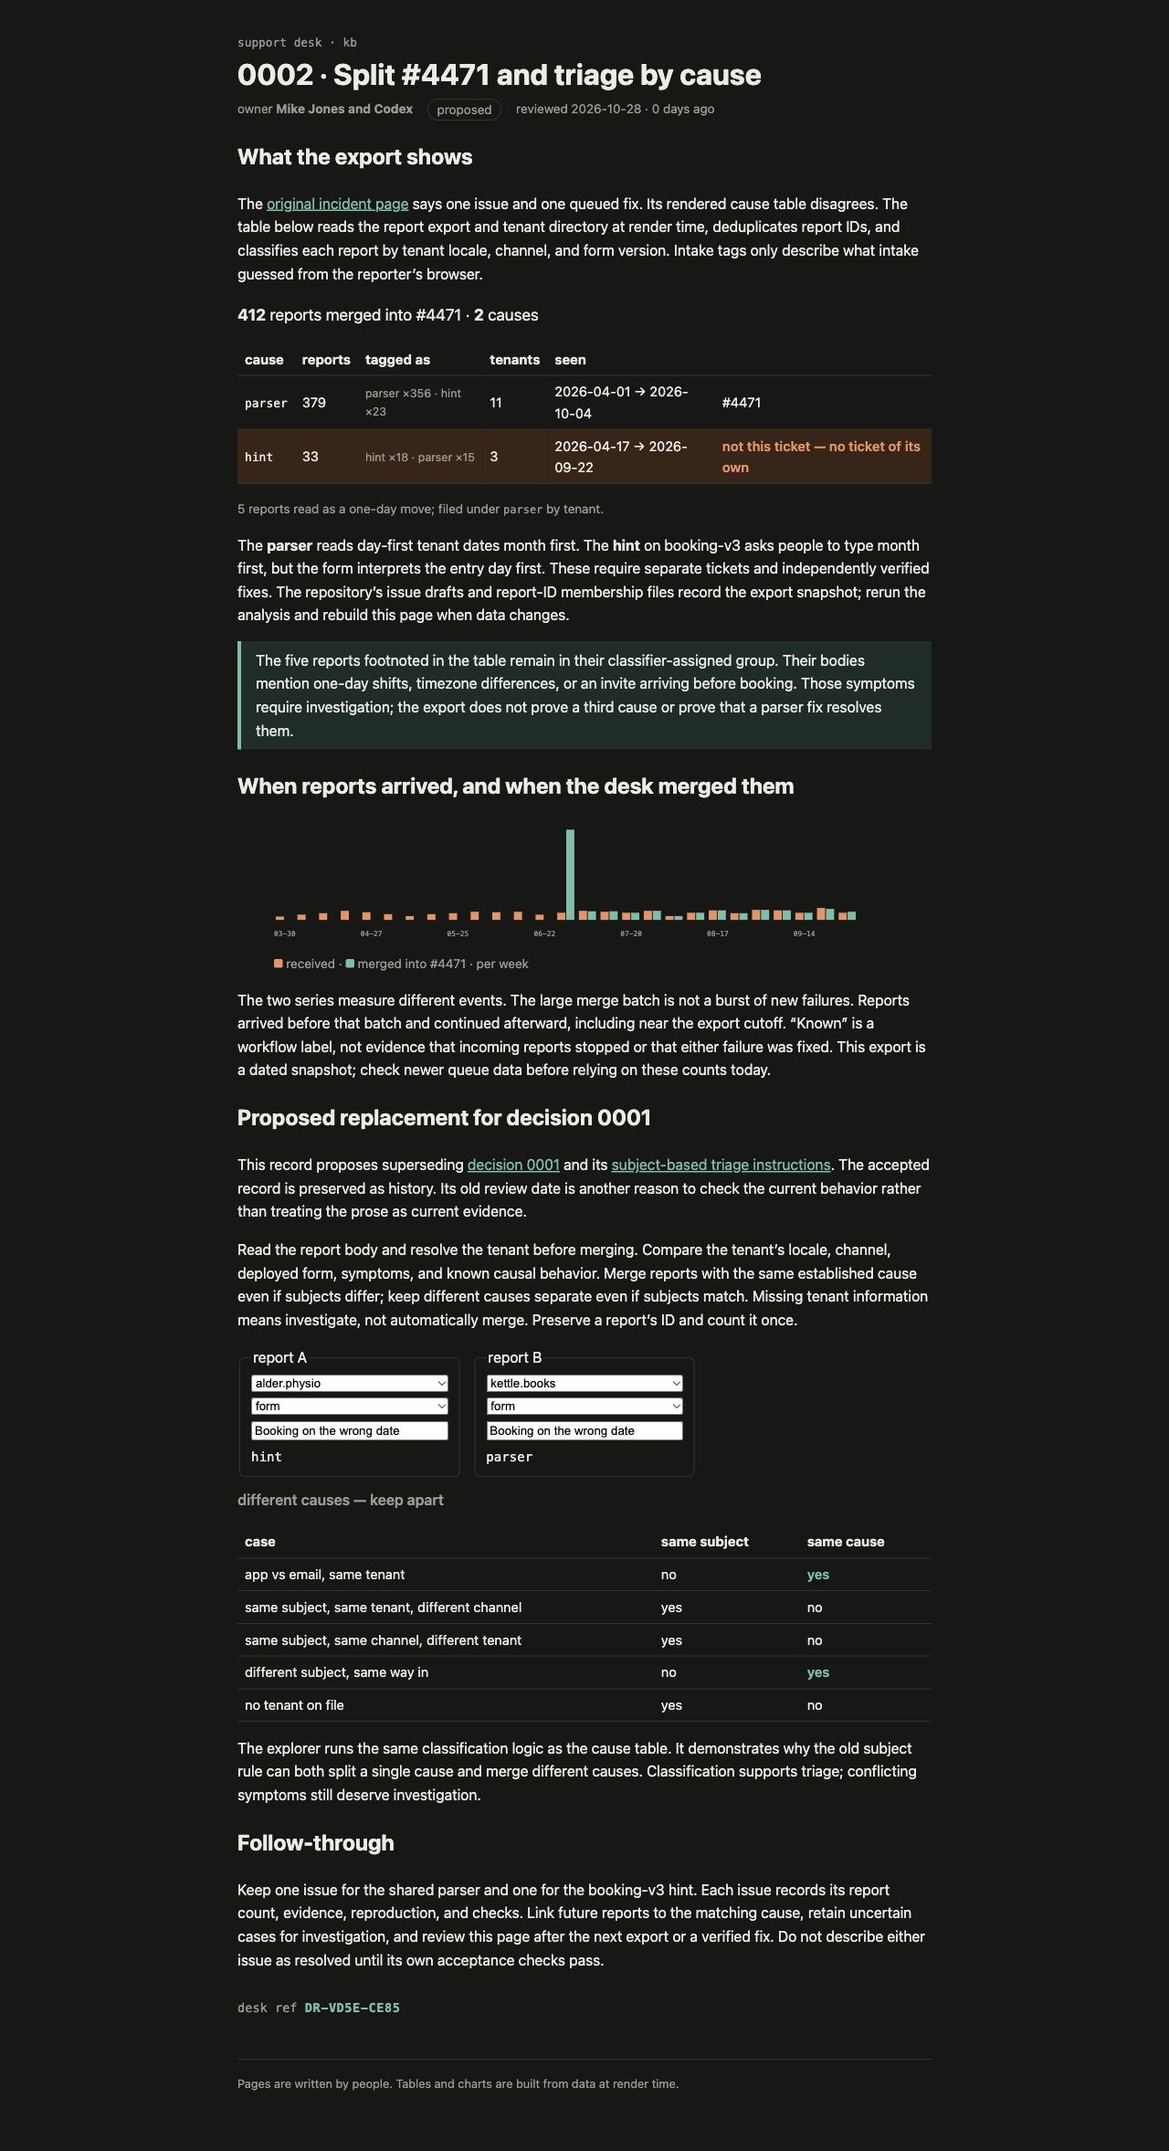
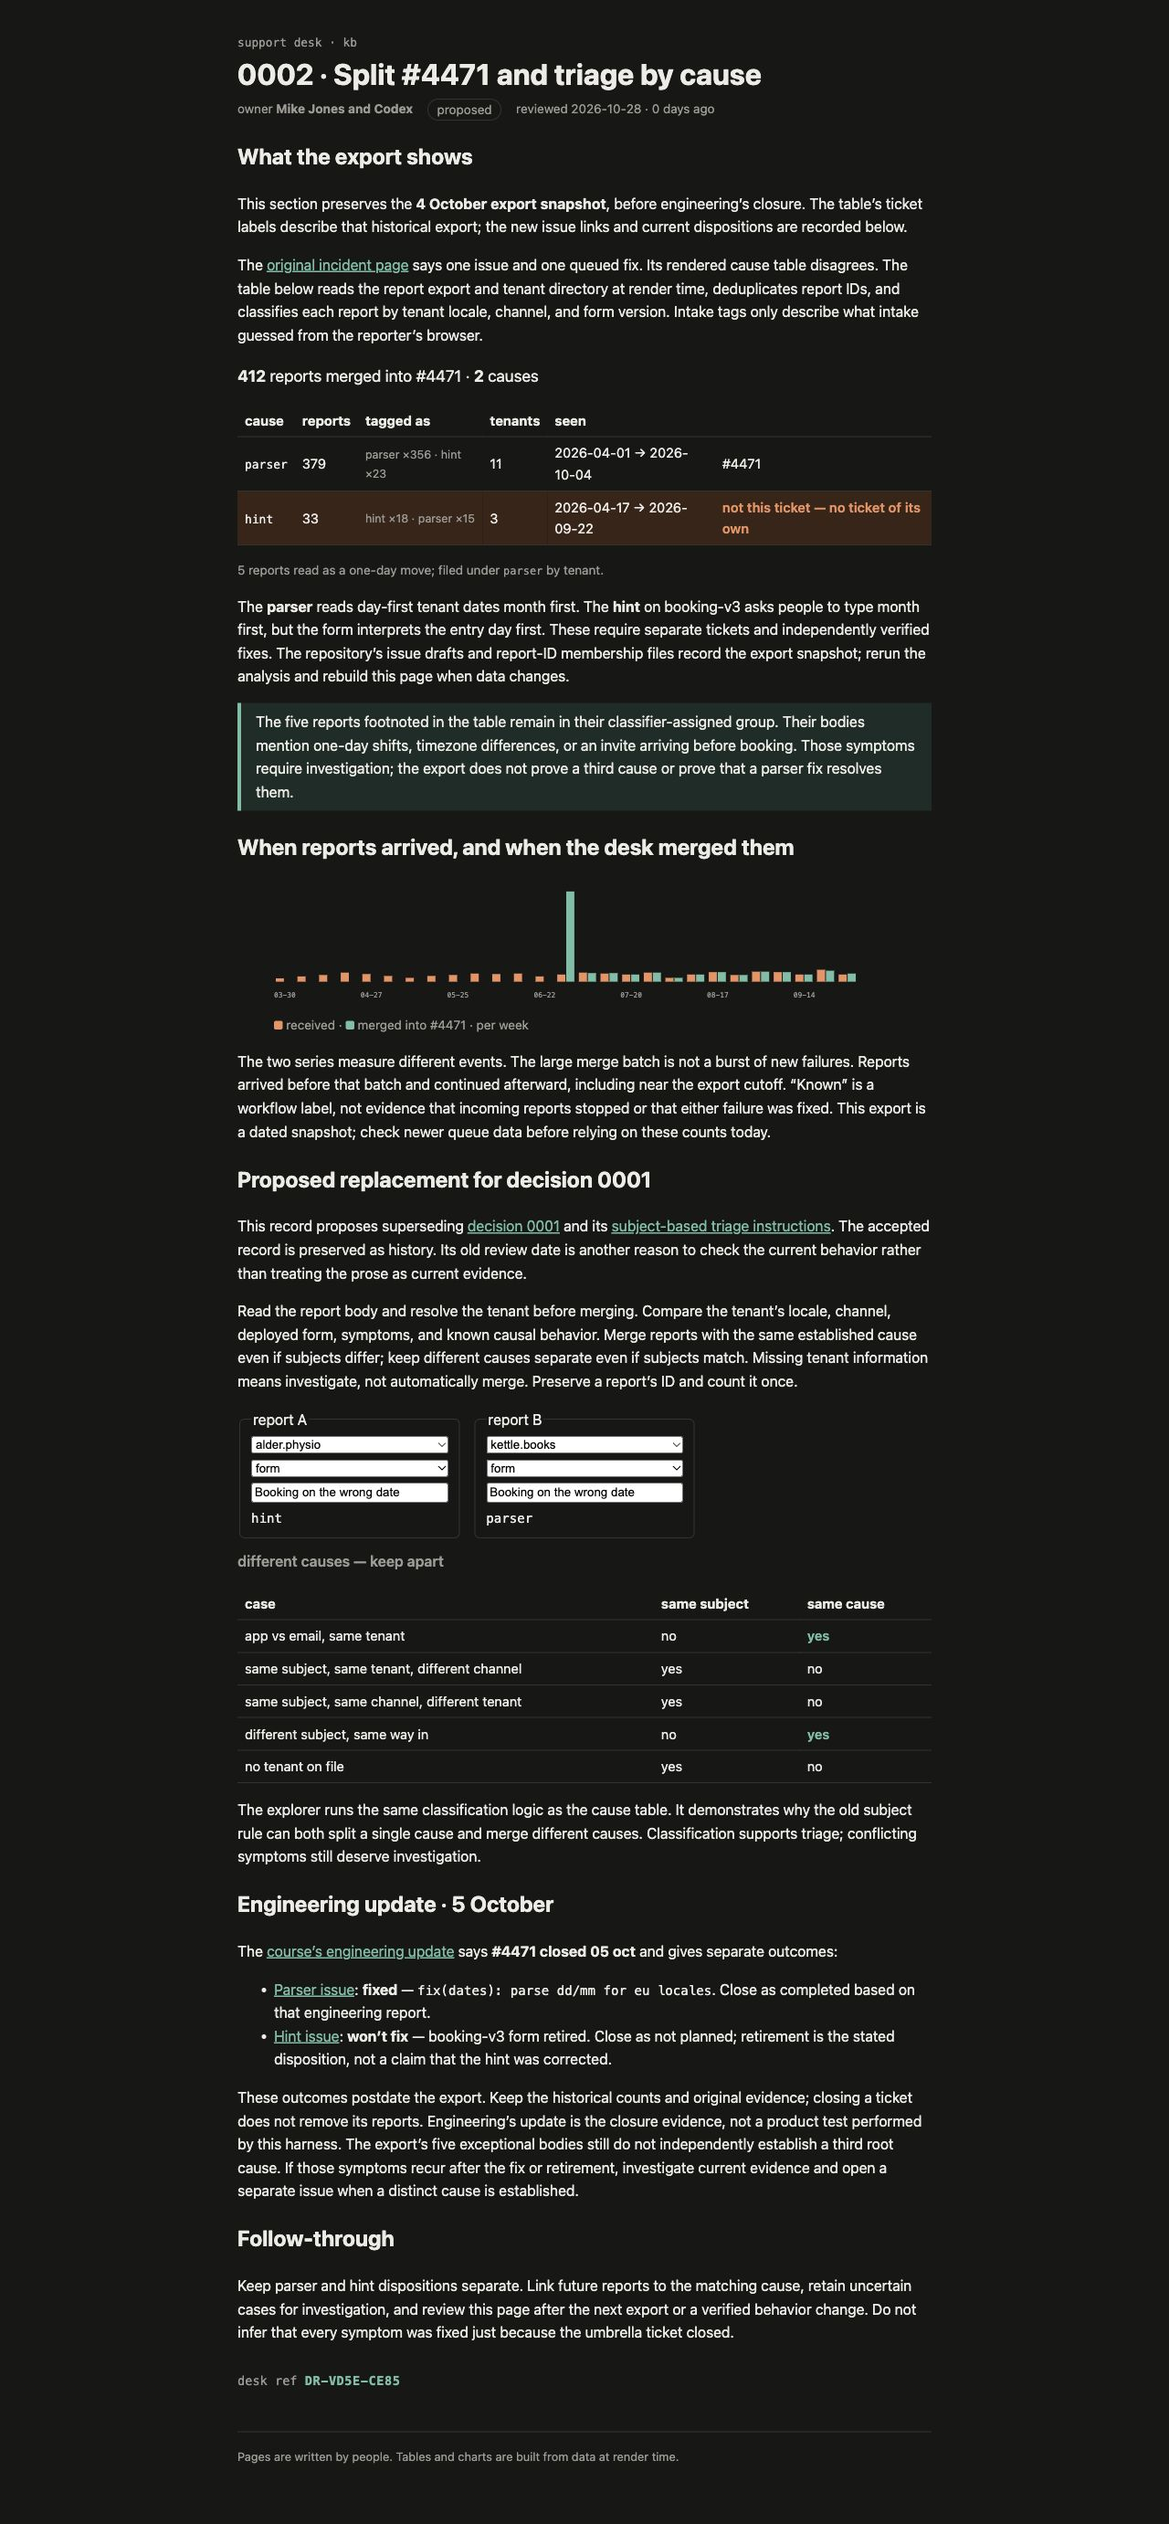
docs: record engineering outcomes for ticket 4471

Changed region(s): [[0.1875, 0.0, 0.8125, 0.9919]]

diff --git a/support-kb/rendered/kb/decisions/0002-triage-by-cause/index.html b/support-kb/rendered/kb/decisions/0002-triage-by-cause/index.html
@@ -56,7 +56,9 @@
   .stamp.svelte-1280m42 b:where(.svelte-1280m42) { color: var(--accent); letter-spacing: 0.04em; }
   .missing.svelte-1280m42 { color: var(--warn); }
 
[2 lines of base64/hex data omitted]
+closure. The table’s ticket labels describe that historical export; the new
+issue links and current dispositions are recorded below.</p> <p>The <a href="/kb/incidents/4471">original incident page</a> says one issue and one queued fix.
 Its rendered cause table disagrees. The table below reads the report export and
 tenant directory at render time, deduplicates report IDs, and classifies each
 report by tenant locale, channel, and form version. Intake tags only describe
@@ -79,8 +81,14 @@ with the same established cause even if subjects differ; keep different causes
 separate even if subjects match. Missing tenant information means investigate,
 not automatically merge. Preserve a report’s ID and count it once.</p> <div class="try svelte-gq0h2h"><!--[--><fieldset class="svelte-gq0h2h"><legend>report A</legend> <select aria-label="tenant"><!--[--><option selected="">alder.physio</option><option>copper.studio</option><option>harbour.dental</option><option>kettle.books</option><option>lantern.row</option><option>long.table</option><option>morrow.tax</option><option>nine.lanterns</option><option>pale.harbour</option><option>ridge.clinic</option><option>stone.and.sons</option><!--]--></select> <select aria-label="channel"><!--[--><option>app</option><option>email</option><option selected="">form</option><!--]--></select> <input value="Booking on the wrong date" aria-label="subject"/> <code>hint</code></fieldset><fieldset class="svelte-gq0h2h"><legend>report B</legend> <select aria-label="tenant"><!--[--><option>alder.physio</option><option>copper.studio</option><option>harbour.dental</option><option selected="">kettle.books</option><option>lantern.row</option><option>long.table</option><option>morrow.tax</option><option>nine.lanterns</option><option>pale.harbour</option><option>ridge.clinic</option><option>stone.and.sons</option><!--]--></select> <select aria-label="channel"><!--[--><option>app</option><option>email</option><option selected="">form</option><!--]--></select> <input value="Booking on the wrong date" aria-label="subject"/> <code>parser</code></fieldset><!--]--> <p class="verdict svelte-gq0h2h">different causes — keep apart</p></div> <table><thead><tr><th>case</th><th>same subject</th><th>same cause</th></tr></thead><tbody><!--[--><tr><td>app vs email, same tenant</td><td>no</td><td class="svelte-gq0h2h dup">yes</td></tr><tr><td>same subject, same tenant, different channel</td><td>yes</td><td class="svelte-gq0h2h">no</td></tr><tr><td>same subject, same channel, different tenant</td><td>yes</td><td class="svelte-gq0h2h">no</td></tr><tr><td>different subject, same way in</td><td>no</td><td class="svelte-gq0h2h dup">yes</td></tr><tr><td>no tenant on file</td><td>yes</td><td class="svelte-gq0h2h">no</td></tr><!--]--></tbody></table><!----> <p>The explorer runs the same classification logic as the cause table. It demonstrates
 why the old subject rule can both split a single cause and merge different causes.
-Classification supports triage; conflicting symptoms still deserve investigation.</p> <h2>Follow-through</h2> <p>Keep one issue for the shared parser and one for the booking-v3 hint. Each issue
-records its report count, evidence, reproduction, and checks. Link future reports
-to the matching cause, retain uncertain cases for investigation, and review this
-page after the next export or a verified fix. Do not describe either issue as
-resolved until its own acceptance checks pass.</p> <!--[0--><p class="stamp svelte-1280m42">desk ref <b class="svelte-1280m42">DR-VD5E-CE85</b></p><!--]--><!----><!----></main> <footer class="svelte-e2jw2j">Pages are written by people. Tables and charts are built from data at render time.</footer></div><!--]--><script type="module" src="/assets/kb.js"></script></body></html>
+Classification supports triage; conflicting symptoms still deserve investigation.</p> <h2>Engineering update · 5 October</h2> <p>The <a href="https://hq.mega.dev/challenges/what-it-shows#engineering-update" rel="nofollow">course’s engineering update</a> says <strong>#4471 closed 05 oct</strong> and gives separate outcomes:</p> <ul><li><a href="https://github.com/Mikejonesab12/mega-s01e03-what-it-shows/issues/1" rel="nofollow">Parser issue</a>: <strong>fixed</strong> — <code>fix(dates): parse dd/mm for eu locales</code>. Close as completed based
+on that engineering report.</li> <li><a href="https://github.com/Mikejonesab12/mega-s01e03-what-it-shows/issues/2" rel="nofollow">Hint issue</a>: <strong>won’t fix</strong> — booking-v3 form retired. Close as not planned; retirement is
+the stated disposition, not a claim that the hint was corrected.</li></ul> <p>These outcomes postdate the export. Keep the historical counts and original
+evidence; closing a ticket does not remove its reports. Engineering’s update is
+the closure evidence, not a product test performed by this harness. The export’s
+five exceptional bodies still do not independently establish a third root cause.
+If those symptoms recur after the fix or retirement, investigate current evidence
+and open a separate issue when a distinct cause is established.</p> <h2>Follow-through</h2> <p>Keep parser and hint dispositions separate. Link future reports to the matching
+cause, retain uncertain cases for investigation, and review this page after the
+next export or a verified behavior change. Do not infer that every symptom was
+fixed just because the umbrella ticket closed.</p> <!--[0--><p class="stamp svelte-1280m42">desk ref <b class="svelte-1280m42">DR-VD5E-CE85</b></p><!--]--><!----><!----></main> <footer class="svelte-e2jw2j">Pages are written by people. Tables and charts are built from data at render time.</footer></div><!--]--><script type="module" src="/assets/kb.js"></script></body></html>

diff --git a/support-kb/rendered/assets/kb.js b/support-kb/rendered/assets/kb.js
@@ -3467,30 +3467,59 @@ var Ho = {
 	status: "proposed",
 	reviewed: "2026-10-28",
 	signature: "Mike Jones · Codex · MEGA S01E03 · 2026-10-28"
-}, { layout: Uo, title: Wo, owner: Go, status: Ko, reviewed: qo, signature: Jo } = Ho, Yo = Q(/* @__PURE__ */ Y("<h2>What the export shows</h2> <p>The <a href=\"/kb/incidents/4471\">original incident page</a> says one issue and one queued fix.\nIts rendered cause table disagrees. The table below reads the report export and\ntenant directory at render time, deduplicates report IDs, and classifies each\nreport by tenant locale, channel, and form version. Intake tags only describe\nwhat intake guessed from the reporter’s browser.</p> <!> <p>The <strong>parser</strong> reads day-first tenant dates month first. The <strong>hint</strong> on booking-v3\nasks people to type month first, but the form interprets the entry day first.\nThese require separate tickets and independently verified fixes. The repository’s\nissue drafts and report-ID membership files record the export snapshot; rerun the\nanalysis and rebuild this page when data changes.</p> <!> <h2>When reports arrived, and when the desk merged them</h2> <!> <p>The two series measure different events. The large merge batch is not a burst of\nnew failures. Reports arrived before that batch and continued afterward, including\nnear the export cutoff. “Known” is a workflow label, not evidence that incoming\nreports stopped or that either failure was fixed. This export is a dated snapshot;\ncheck newer queue data before relying on these counts today.</p> <h2>Proposed replacement for decision 0001</h2> <p>This record proposes superseding <a href=\"/kb/decisions/0001-dedupe-by-subject\">decision 0001</a> and its <a href=\"/kb/triage/dedupe\">subject-based triage instructions</a>. The accepted record\nis preserved as history. Its old review date is another reason to check the current\nbehavior rather than treating the prose as current evidence.</p> <p>Read the report body and resolve the tenant before merging. Compare the tenant’s\nlocale, channel, deployed form, symptoms, and known causal behavior. Merge reports\nwith the same established cause even if subjects differ; keep different causes\nseparate even if subjects match. Missing tenant information means investigate,\nnot automatically merge. Preserve a report’s ID and count it once.</p> <!> <p>The explorer runs the same classification logic as the cause table. It demonstrates\nwhy the old subject rule can both split a single cause and merge different causes.\nClassification supports triage; conflicting symptoms still deserve investigation.</p> <h2>Follow-through</h2> <p>Keep one issue for the shared parser and one for the booking-v3 hint. Each issue\nrecords its report count, evidence, reproduction, and checks. Link future reports\nto the matching cause, retain uncertain cases for investigation, and review this\npage after the next export or a verified fix. Do not describe either issue as\nresolved until its own acceptance checks pass.</p> <!>", 1), Xo[o], [
+}, { layout: Uo, title: Wo, owner: Go, status: Ko, reviewed: qo, signature: Jo } = Ho, Yo = Q(/* @__PURE__ */ Y("<h2>What the export shows</h2> <p>This section preserves the <strong>4 October export snapshot</strong>, before engineering’s\nclosure. The table’s ticket labels describe that historical export; the new\nissue links and current dispositions are recorded below.</p> <p>The <a href=\"/kb/incidents/4471\">original incident page</a> says one issue and one queued fix.\nIts rendered cause table disagrees. The table below reads the report export and\ntenant directory at render time, deduplicates report IDs, and classifies each\nreport by tenant locale, channel, and form version. Intake tags only describe\nwhat intake guessed from the reporter’s browser.</p> <!> <p>The <strong>parser</strong> reads day-first tenant dates month first. The <strong>hint</strong> on booking-v3\nasks people to type month first, but the form interprets the entry day first.\nThese require separate tickets and independently verified fixes. The repository’s\nissue drafts and report-ID membership files record the export snapshot; rerun the\nanalysis and rebuild this page when data changes.</p> <!> <h2>When reports arrived, and when the desk merged them</h2> <!> <p>The two series measure different events. The large merge batch is not a burst of\nnew failures. Reports arrived before that batch and continued afterward, including\nnear the export cutoff. “Known” is a workflow label, not evidence that incoming\nreports stopped or that either failure was fixed. This export is a dated snapshot;\ncheck newer queue data before relying on these counts today.</p> <h2>Proposed replacement for decision 0001</h2> <p>This record proposes superseding <a href=\"/kb/decisions/0001-dedupe-by-subject\">decision 0001</a> and its <a href=\"/kb/triage/dedupe\">subject-based triage instructions</a>. The accepted record\nis preserved as history. Its old review date is another reason to check the current\nbehavior rather than treating the prose as current evidence.</p> <p>Read the report body and resolve the tenant before merging. Compare the tenant’s\nlocale, channel, deployed form, symptoms, and known causal behavior. Merge reports\nwith the same established cause even if subjects differ; keep different causes\nseparate even if subjects match. Missing tenant information means investigate,\nnot automatically merge. Preserve a report’s ID and count it once.</p> <!> <p>The explorer runs the same classification logic as the cause table. It demonstrates\nwhy the old subject rule can both split a single cause and merge different causes.\nClassification supports triage; conflicting symptoms still deserve investigation.</p> <h2>Engineering update · 5 October</h2> <p>The <a href=\"https://hq.mega.dev/challenges/what-it-shows#engineering-update\" rel=\"nofollow\">course’s engineering update</a> says <strong>#4471 closed 05 oct</strong> and gives separate outcomes:</p> <ul><li><a href=\"https://github.com/Mikejonesab12/mega-s01e03-what-it-shows/issues/1\" rel=\"nofollow\">Parser issue</a>: <strong>fixed</strong> — <code>fix(dates): parse dd/mm for eu locales</code>. Close as completed based\non that engineering report.</li> <li><a href=\"https://github.com/Mikejonesab12/mega-s01e03-what-it-shows/issues/2\" rel=\"nofollow\">Hint issue</a>: <strong>won’t fix</strong> — booking-v3 form retired. Close as not planned; retirement is\nthe stated disposition, not a claim that the hint was corrected.</li></ul> <p>These outcomes postdate the export. Keep the historical counts and original\nevidence; closing a ticket does not remove its reports. Engineering’s update is\nthe closure evidence, not a product test performed by this harness. The export’s\nfive exceptional bodies still do not independently establish a third root cause.\nIf those symptoms recur after the fix or retirement, investigate current evidence\nand open a separate issue when a distinct cause is established.</p> <h2>Follow-through</h2> <p>Keep parser and hint dispositions separate. Link future reports to the matching\ncause, retain uncertain cases for investigation, and review this page after the\nnext export or a verified behavior change. Do not infer that every symptom was\nfixed just because the umbrella ticket closed.</p> <!>", 1), Xo[o], [
 	[15, 0],
 	[
 		16,
 		0,
-		[[16, 7]]
+		[[16, 30]]
 	],
 	[
-		22,
+		19,
 		0,
-		[[22, 7], [22, 77]]
+		[[19, 7]]
 	],
-	[33, 0],
-	[35, 0],
-	[40, 0],
 	[
-		41,
+		25,
 		0,
-		[[41, 36], [44, 8]]
+		[[25, 7], [25, 77]]
 	],
-	[47, 0],
-	[53, 0],
+	[36, 0],
+	[38, 0],
+	[43, 0],
+	[
+		44,
+		0,
+		[[44, 36], [47, 8]]
+	],
+	[50, 0],
 	[56, 0],
-	[57, 0]
+	[59, 0],
+	[
+		60,
+		0,
+		[[60, 7], [64, 5]]
+	],
+	[
+		65,
+		0,
+		[[
+			66,
+			0,
+			[
+				[66, 4],
+				[70, 0],
+				[70, 25]
+			]
+		], [
+			72,
+			0,
+			[[72, 4], [76, 0]]
+		]]
+	],
+	[79, 0],
+	[85, 0],
+	[86, 0]
 ]);
 function Xo(e, t) {
 	Ri(new.target);
@@ -3504,23 +3533,23 @@ function Xo(e, t) {
 	var r = { ...zi() };
 	return j(() => Ua(e, Fa(() => n, () => Ho, {
 		children: Ni(Xo, (e, t) => {
-			var n = Yo(), r = B(Zn(n), 4);
-			j(() => vo(r, { ticket: 4471 }), "component", Xo, 21, 0, { componentTag: "CauseTable" });
+			var n = Yo(), r = B(Zn(n), 6);
+			j(() => vo(r, { ticket: 4471 }), "component", Xo, 24, 0, { componentTag: "CauseTable" });
 			var i = B(r, 4);
 			j(() => Bo(i, {
 				children: Ni(Xo, (e, t) => {
 					Be(), X(e, _i("The five reports footnoted in the table remain in their classifier-assigned group.\nTheir bodies mention one-day shifts, timezone differences, or an invite arriving\nbefore booking. Those symptoms require investigation; the export does not prove\na third cause or prove that a parser fix resolves them."));
 				}),
 				$$slots: { default: !0 }
-			}), "component", Xo, 27, 0, { componentTag: "Callout" });
+			}), "component", Xo, 30, 0, { componentTag: "Callout" });
 			var a = B(i, 4);
-			j(() => Co(a, { ticket: 4471 }), "component", Xo, 34, 0, { componentTag: "QueueTimeline" });
+			j(() => Co(a, { ticket: 4471 }), "component", Xo, 37, 0, { componentTag: "QueueTimeline" });
 			var o = B(a, 10);
-			j(() => $(o, {}), "component", Xo, 52, 0, { componentTag: "DedupeExplorer" });
-			var s = B(o, 8);
+			j(() => $(o, {}), "component", Xo, 55, 0, { componentTag: "DedupeExplorer" });
+			var s = B(o, 16);
 			j(() => Lo(s, { get signature() {
 				return Jo;
-			} }), "component", Xo, 62, 0, { componentTag: "RenderStamp" }), X(e, n);
+			} }), "component", Xo, 90, 0, { componentTag: "RenderStamp" }), X(e, n);
 		}),
 		$$slots: { default: !0 }
 	})), "component", Xo, 13, 0, { componentTag: "Layout_MDSVEX_DEFAULT" }), N(r);

diff --git a/README.md b/README.md
@@ -19,6 +19,9 @@ The reports and tenants are part of the course exercise.
 
 ## Deliverables
 
+- [Parser issue #1](https://github.com/Mikejonesab12/mega-s01e03-what-it-shows/issues/1): completed, per engineering's 5 October fix report.
+- [Hint issue #2](https://github.com/Mikejonesab12/mega-s01e03-what-it-shows/issues/2): not planned, because booking-v3 was retired.
+
 - [Signed .svx page](support-kb/src/routes/kb/decisions/0002-triage-by-cause/+page.svx)
 - [Rendered page HTML](support-kb/rendered/kb/decisions/0002-triage-by-cause/index.html)
 - [Rendered page screenshot](preview.png)
@@ -50,3 +53,7 @@ the local client bundle makes the explorer interactive. It needs no remote CDN.
 Rebuild after source or export changes; saved HTML is a dated snapshot.
 
 No application fix or production validation is included in this exercise.
+The course's engineering update reports #4471 closed on 5 October, with parser
+fixed (`fix(dates): parse dd/mm for eu locales`) and hint won't fix because the
+booking-v3 form was retired. This post-export update governs the issue dispositions;
+it does not rewrite the historical counts or constitute our own production test.

diff --git a/VERIFICATION.md b/VERIFICATION.md
@@ -24,3 +24,11 @@
 
 Counts describe the supplied export. The product itself and any live support queue
 were not accessible for reproduction. Course acceptance remains pending.
+
+## After first course submission
+
+The course accepted both tickets, then requested closure after the desk's work.
+The challenge page exposed an engineering update: #4471 closed 05 oct; parser
+FIXED (`fix(dates): parse dd/mm for eu locales`); hint WON'T FIX (booking-v3 form
+retired). Recorded this in the signed page and closed #1 as completed and #2 as
+not planned. These are engineering-reported outcomes, not harness product tests.
